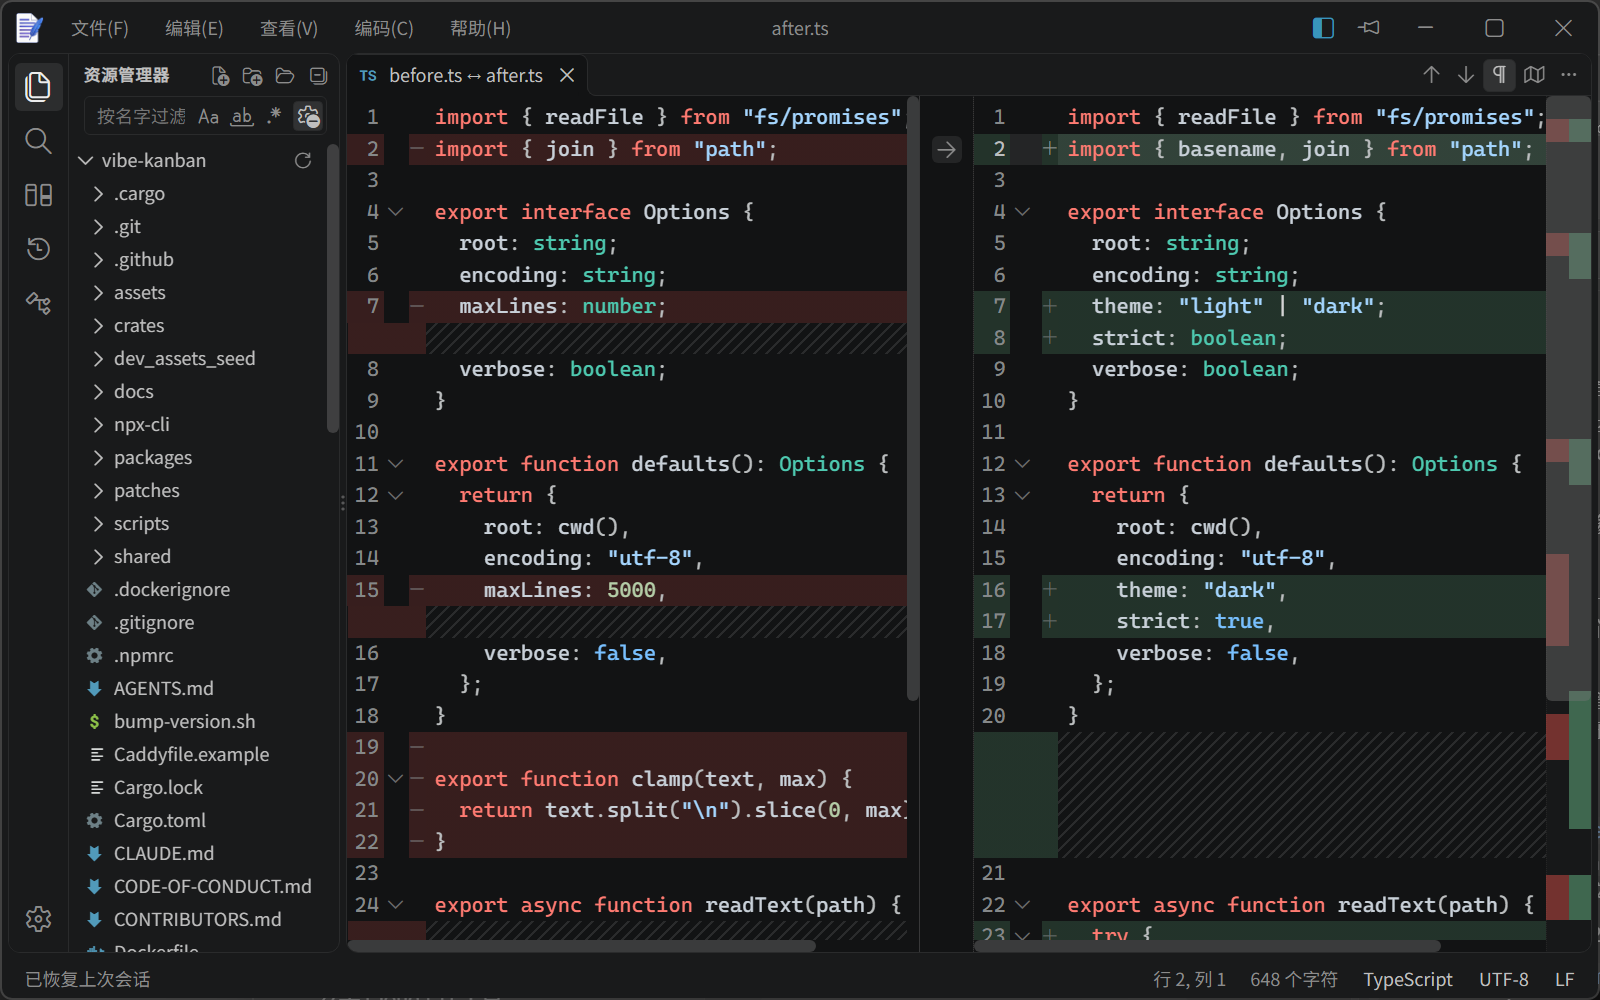
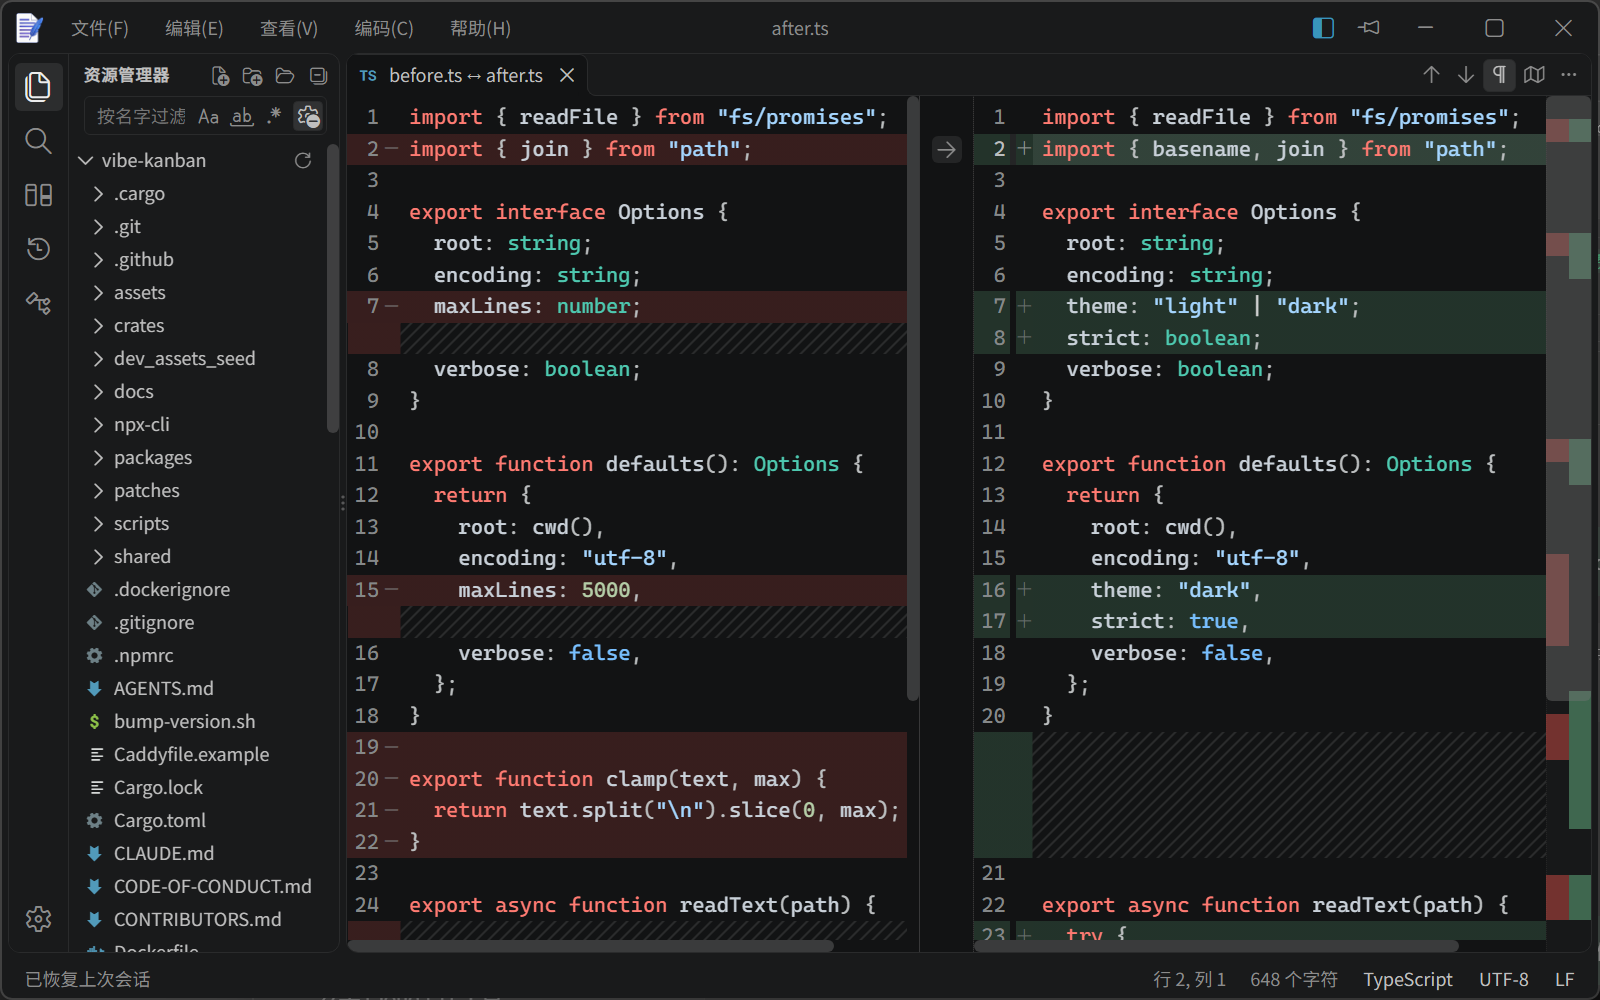
fix(diff): 差异视图按上游关掉折叠槽（diff 子编辑器 folding = false）
用户指出差异编辑器里多出一条没有差异行底色的孤立折槽。核实上游后确认那不是「补个底色」
的事：`diffEditorEditors.ts` 的 `_adjustOptionsForSubEditor` 对两颗子编辑器都写死
`clonedOptions.folding = false;` ⇒ 折叠模型不建、折叠控件不画，`editor.fold*` 也因为
`foldingEnabled` 上下文键为 false 而不可达（`foldingAction.ts` 的 precondition）。

照做：新增 `perfOfDiffInstance`（普通档位上把 folding 关掉），两栏都按它建，折叠槽随之消失；
`foldOperation` / `foldCodeOperation` 回到只作用于右栏那颗 view（上一轮为左栏折叠加的
目标选择一并撤销）。

回归测试改成钉「差异视图不渲染折叠槽」：左栏与生产路径的 `makeDiffInstance` 各一条，
同时确认行号槽仍在。

diff --git a/src/diff/surface.ts b/src/diff/surface.ts
@@ -22,8 +22,8 @@ import { Compartment, EditorState, StateEffect, type Extension } from "@codemirr
 import { EditorView, BlockType } from "@codemirror/view";
 import { detectLanguage } from "../editor/language";
 import { gutterExtensions } from "../editor/editor";
-import { perfProfileForDoc, type PerfProfile } from "../editor/perf";
-import { isMdDoc } from "../doc-model";
+import { perfOfDiffInstance } from "../doc-model";
+import type { PerfProfile } from "../editor/perf";
 import { activePanelId, docs, isWrap, panels, tabs, type Panel } from "../core/app-state";
 import { landVisibleSideAtV } from "../sync-scroll/wire";
 import { DIFF_REFRESH_MS } from "./align";
@@ -215,11 +215,10 @@ function lineStartOf(view: EditorView, line: number): number {
  * `wrap` 是这一栏的折行槽（B461 后续轮，见 `createDiffSurface` 的 `wrapOn`）：默认空扩展 =
  * 不折行。它与右栏那颗折行槽同步 reconfigure，两栏才可能同时折上。
  *
- * `perf` 与右栏**同一档**（右栏那颗 state 就是 `makeDiffInstance` 按 `perfProfileForDoc`
- * 造的）：差异格两半要么一起有折叠箭头 / 语法高亮，要么一起没有。VS Code 里这从来不是问题
- * （两半各是一颗真 `CodeEditorWidget`，`editor.folding` 默认 true，没有按体量裁剪那一说）；
- * LitePad 的档位是主编辑器自己的降级策略，照搬到这里时两半必须同档，否则用户看到的就是
- * 「左边有箭头、右边没有」——比两侧都没有更像 bug。
+ * `perf` 与右栏**同一档**（两栏都由 `perfOfDiffInstance` 给）：折叠在这一档里恒为关，
+ * 依据是上游的差异子编辑器写死 `folding = false`（`diffEditorEditors.ts` 的
+ * `_adjustOptionsForSubEditor`）—— 差异格里根本没有折叠槽，也就没有「一列没有差异行底色的
+ * 孤立折槽」这件事。其余档位（语法高亮的开关）两栏必须同档，否则一边有一边没有更像 bug。
  */
 function leftState(
   spec: DiffSpec,
@@ -240,10 +239,8 @@ function leftState(
       EditorView.editable.of(false),
       EditorView.contentAttributes.of({ tabindex: "0" }),
       EditorState.transactionFilter.of((tr) => (tr.docChanged ? [] : tr)),
-      // 行号 + 折叠槽走与右栏**同一颗**工厂（`gutterExtensions`，M4 档位口径也在那里）：
-      // 行号是导航底线，折叠槽按 `perf.folding` 给。次序照 `EditorLayoutInfo` —— 折叠箭头
-      // 画在行号槽的右缘、`+`/`−` 记号（`linesDecorationsClassName`）再靠右；CM6 的 gutter
-      // 次序就是 DOM 次序，所以先行号、后折叠、face 里的记号槽排最后。
+      // 行号走与右栏**同一颗**工厂（`gutterExtensions`）—— `perf` 已由 `perfOfDiffInstance`
+      // 把折叠关掉，所以这里只会给出行号槽，与上游差异子编辑器的 folding = false 同口径。
       ...gutterExtensions(perf),
       ...(perf.syntax && language ? [language] : []),
       theme,
@@ -339,14 +336,10 @@ export function createDiffSurface(
 
   const current = spec;
   /**
-   * 左栏吃哪一档性能档案 —— **与右栏那颗 state 同一档**（`makeDiffInstance` 就是按
-   * `perfProfileForDoc(doc.sizeClass, isMdDoc(doc))` 造的右栏）。档位只由文档决定、不随
-   * 交互变，因此在挂上时算一次即可。
+   * 左栏吃哪一档性能档案 —— **与右栏那颗 state 同一颗函数**（`perfOfDiffInstance`，
+   * `makeDiffInstance` 用它造右栏）。档位只由文档决定、不随交互变。
    */
-  const leftPerf = (): PerfProfile => {
-    const doc = docs.get(current.docId);
-    return perfProfileForDoc(doc?.sizeClass ?? "normal", isMdDoc(doc ?? null));
-  };
+  const leftPerf = (): PerfProfile => perfOfDiffInstance(docs.get(current.docId));
   /** 左栏那一臂的槽（随 state 进去；`reassert` 补基线换 state 时重新带上，见 `leftState`）。 */
   const leftFace = new Compartment();
   /** 左栏主题的槽（R22 取现值 + R23-2 换主题时 `reconfigure` 换掉，不重建整颗 state）。 */

diff --git a/src/commands.ts b/src/commands.ts
@@ -7,7 +7,7 @@
 // 查找替换命令入口（openFindReplace）、视图批处理方法（withView / findStep / tabStateWriteBack）。
 // 零外部函数依赖（无 DI）——依赖 core/* + ui + tabs + find/findbar + prefs + shell/* + editor/*。
 
-import { isWrap, panels, settings, tabs, windowKind, type Panel, type Tab } from "./core/app-state";
+import { isWrap, panels, settings, tabs, windowKind, type Tab } from "./core/app-state";
 import { logger } from "./core/logger";
 import { redo, selectAll, undo } from "@codemirror/commands";
 import { activePanel, activeTab, docOf, instancesOfDoc } from "./core/panels";
@@ -149,20 +149,6 @@ function deleteSelection(): void {
 // ---------------------------------------------------------------- 折叠全部 / 展开全部
 
 /**
- * 折叠命令真正作用的那颗 view。
- *
- * VS Code 把 folding 动作注册成 `registerEditorAction`（`folding.ts` 的
- * `FoldAction`/`UnfoldAction`），作用对象是**拿到焦点的那颗编辑器**；差异编辑器的两半
- * 各是一颗真 `CodeEditorWidget` ⇒ 焦点落在左栏时折的是左栏。这里照同一口径：左栏有焦点
- * 就把命令交给它，否则仍是右栏（`Panel.view`）。左栏那份 state 不写回标签 —— 它是旁路的
- * 只读镜像，写回会把右栏那份文档的快照换成对照稿。
- */
-function foldTargetOf(panel: Panel, right: EditorView): EditorView {
-  const left = panel.diffSurface?.left;
-  return left && left.hasFocus ? left : right;
-}
-
-/**
  * 对活动实例与同文件的其他可见实例执行折叠/展开全部。
  * 折叠状态存在 EditorState 里但不随同源广播——这里对可见实例显式同步；
  * 离屏实例无法运行命令（@codemirror/language 未导出折叠状态字段），保持各自状态。
@@ -177,22 +163,17 @@ function foldOperation(all: boolean): void {
     if (all) foldAll(v);
     else unfoldAll(v);
   };
-  const target = foldTargetOf(panel, view);
-  run(target);
-  // 左栏聚焦时只折/展左栏：VS Code 的编辑器动作不跨到差异格另一侧的编辑器，
-  // 也不广播给同文档的其它视口（与「一次只有一颗编辑器吃这条命令」同一口径）。
-  if (target === view) {
-    tab.state = view.state;
-    for (const inst of instancesOfDoc(docOf(tab).tabId)) {
-      if (inst.tabId === tab.tabId) continue;
-      const p = panels.get(inst.panelId);
-      if (p?.view && p.viewTabId === inst.tabId) {
-        run(p.view.view);
-        inst.state = p.view.view.state;
-      }
+  run(view);
+  tab.state = view.state;
+  for (const inst of instancesOfDoc(docOf(tab).tabId)) {
+    if (inst.tabId === tab.tabId) continue;
+    const p = panels.get(inst.panelId);
+    if (p?.view && p.viewTabId === inst.tabId) {
+      run(p.view.view);
+      inst.state = p.view.view.state;
     }
   }
-  target.focus();
+  view.focus();
 }
 
 /**
@@ -205,11 +186,10 @@ function foldCodeOperation(fold: boolean): void {
   if (!panel || !view) return;
   const tab = panel.viewTabId !== null ? tabs.get(panel.viewTabId) : undefined;
   if (!tab) return;
-  const target = foldTargetOf(panel, view);
-  if (fold) foldCode(target);
-  else unfoldCode(target);
-  if (target === view) tab.state = view.state;
-  target.focus();
+  if (fold) foldCode(view);
+  else unfoldCode(view);
+  tab.state = view.state;
+  view.focus();
 }
 
 // ---------------------------------------------------------------- 转到行

diff --git a/tests/diff-surface.test.ts b/tests/diff-surface.test.ts
@@ -53,7 +53,7 @@ import {
 import { createEditor, makeTabState } from "../src/editor/editor";
 import { detectLanguage } from "../src/editor/language";
 import { perfProfileFor } from "../src/editor/perf";
-import { makeDoc, markClean } from "../src/doc-model";
+import { makeDiffInstance, makeDoc, markClean } from "../src/doc-model";
 import { applyDarkToTabs, applyWrapToTabs } from "../src/appearance";
 import {
   createDiffSurface,
@@ -1419,18 +1419,29 @@ describe("B461 · 两栏各按自己的文件类型解析", () => {
   });
 });
 
-describe("B461 · 差异编辑器里的折叠槽", () => {
-  it("左栏也挂折叠槽，且排在行号槽之后（VS Code 的折叠箭头在行号右缘）", () => {
+describe("B461 · 差异视图不挂折叠槽（上游 diff 子编辑器 folding = false）", () => {
+  // 依据：`diffEditorEditors.ts` 的 `_adjustOptionsForSubEditor` 对两颗子编辑器都写死
+  // `clonedOptions.folding = false;` ⇒ 折叠模型不建、折叠控件不画。此前照着普通编辑器给左栏
+  // 也挂了折叠槽，结果是那一列没有差异行底色、在差异格里成了一根孤立的柱子。
+  it("左栏只有行号槽，没有折叠槽", () => {
     const hostEl = document.createElement("div");
     hostEl.className = "panel-host";
     document.body.appendChild(hostEl);
-    const panel = freshPanel();
-    const surface = createDiffSurface(hostEl, panel, spec());
-    const gutters = [...surface.left.dom.querySelectorAll(".cm-gutter")].map((g) => g.className);
-    const num = gutters.findIndex((c) => c.includes("cm-lineNumbers"));
-    const fold = gutters.findIndex((c) => c.includes("cm-foldGutter"));
-    expect(num, "行号槽还在").toBeGreaterThanOrEqual(0);
-    expect(fold, "折叠槽在（右栏早就有一份，左栏此前没有）").toBeGreaterThanOrEqual(0);
-    expect(fold, "折叠槽紧跟在行号槽之后").toBe(num + 1);
+    const surface = createDiffSurface(hostEl, freshPanel(), spec());
+    expect(surface.left.dom.querySelector(".cm-lineNumbers"), "行号槽还在").toBeTruthy();
+    expect(surface.left.dom.querySelector(".cm-foldGutter"), "折叠槽不渲染").toBeNull();
+  });
+
+  it("右栏（生产路径 makeDiffInstance）同样没有折叠槽", () => {
+    const doc = makeDoc(101, "右栏正文\n它的第二行", "a.ts", null, "UTF-8", "LF", false);
+    doc.baseline = "左栏正文\n它的第二行";
+    docs.set(101, doc);
+    const tab = makeDiffInstance(doc, 0, "右栏正文\n它的第二行", spec({ docId: 101 }));
+    const el = document.createElement("div");
+    document.body.appendChild(el);
+    const view = new EditorView({ parent: el, state: tab.state });
+    expect(view.dom.querySelector(".cm-lineNumbers"), "行号槽还在").toBeTruthy();
+    expect(view.dom.querySelector(".cm-foldGutter"), "折叠槽不渲染").toBeNull();
+    view.destroy();
   });
 });

diff --git a/src/doc-model.ts b/src/doc-model.ts
@@ -18,7 +18,7 @@ import {
   layout,
 } from "./core/app-state";
 import { detectLanguage, languageInfoByLabel, type LanguageInfo } from "./editor/language";
-import { perfProfileForDoc, type SizeClass } from "./editor/perf";
+import { perfProfileForDoc, type PerfProfile, type SizeClass } from "./editor/perf";
 import { makeTabState } from "./editor/editor";
 import { eachLeaf } from "./core/layout";
 import { activeTab } from "./core/panels";
@@ -124,6 +124,19 @@ function makeInstance(doc: Doc, panelId: number, text: string): Tab {
 }
 
 /**
+ * 差异格里那一档性能档案：与普通实例同一档，**只把折叠关掉**。
+ *
+ * VS Code 的差异编辑器对两颗子编辑器都写死 `folding = false`
+ * （`diffEditorEditors.ts` 的 `_adjustOptionsForSubEditor`：`clonedOptions.folding = false;`），
+ * 于是折叠模型不建、折叠控件不画，`editor.fold*` 那组动作也因 `foldingEnabled` 上下文键
+ * 为 false 而不可达（`foldingAction.ts` 里 `precondition: CONTEXT_FOLDING_ENABLED`）。
+ * 两栏都按这一条给 ⇒ 差异格里没有那一列「没有差异行底色的孤立折槽」。
+ */
+export function perfOfDiffInstance(doc: Doc | undefined | null): PerfProfile {
+  return { ...perfProfileForDoc(doc?.sizeClass ?? "normal", isMdDoc(doc)), folding: false };
+}
+
+/**
  * B461 · `makeInstance` 的孪生：为**差异标签**在指定面板建一份实例（Task 5）。
  *
  * 与 `makeInstance` 只差两处，而这两处都是设计稿的指名：
@@ -135,11 +148,12 @@ function makeInstance(doc: Doc, panelId: number, text: string): Tab {
  *
  * 右栏这一份仍是**这份文档的可写实例**（`instanceOnUpdate` 照挂）：脏归文档、
  * Ctrl+S 走主干那条保存链，一行分支都不加（设计稿 ⑧·1 的落点）。
+ * 折叠也跟着 `perfOfDiffInstance` 关掉（上游的差异子编辑器就是这么建的）。
  */
 function makeDiffInstance(doc: Doc, panelId: number, text: string, spec: DiffSpec): Tab {
   const firstLine = text.split("\n", 1)[0] ?? "";
   const lang = languageOfDoc(doc, firstLine);
-  const perf = perfProfileForDoc(doc.sizeClass, isMdDoc(doc));
+  const perf = perfOfDiffInstance(doc);
   const { state, comps } = makeTabState(
     text,
     lang.extension,

diff --git a/tests/diff-face.test.ts b/tests/diff-face.test.ts
@@ -950,7 +950,8 @@ describe("B462 · 记号槽与右缘概览条样式", () => {
     expect(revert).toContain("height: 18px");
     expect(revert, "上游 .actions-container 的 4px 圆角").toContain("border-radius: 4px");
 
-    // 底色类会落到所有 gutter 上 ⇒ 只许行号槽与记号槽吃颜色，4px 差异列 / 折叠槽不许变色。
+    // 底色类会落到所有 gutter 上 ⇒ 只许行号槽与记号槽吃颜色，4px 差异列不许变色
+    // （折叠槽在差异格里根本不渲染，见 diff-surface 的 folding = false 那条）。
     const gutter = ruleBlock(
       css(),
       ".panel-host.is-diff .cm-lineNumbers .cm-gutterElement.diff-gutter-insert",
